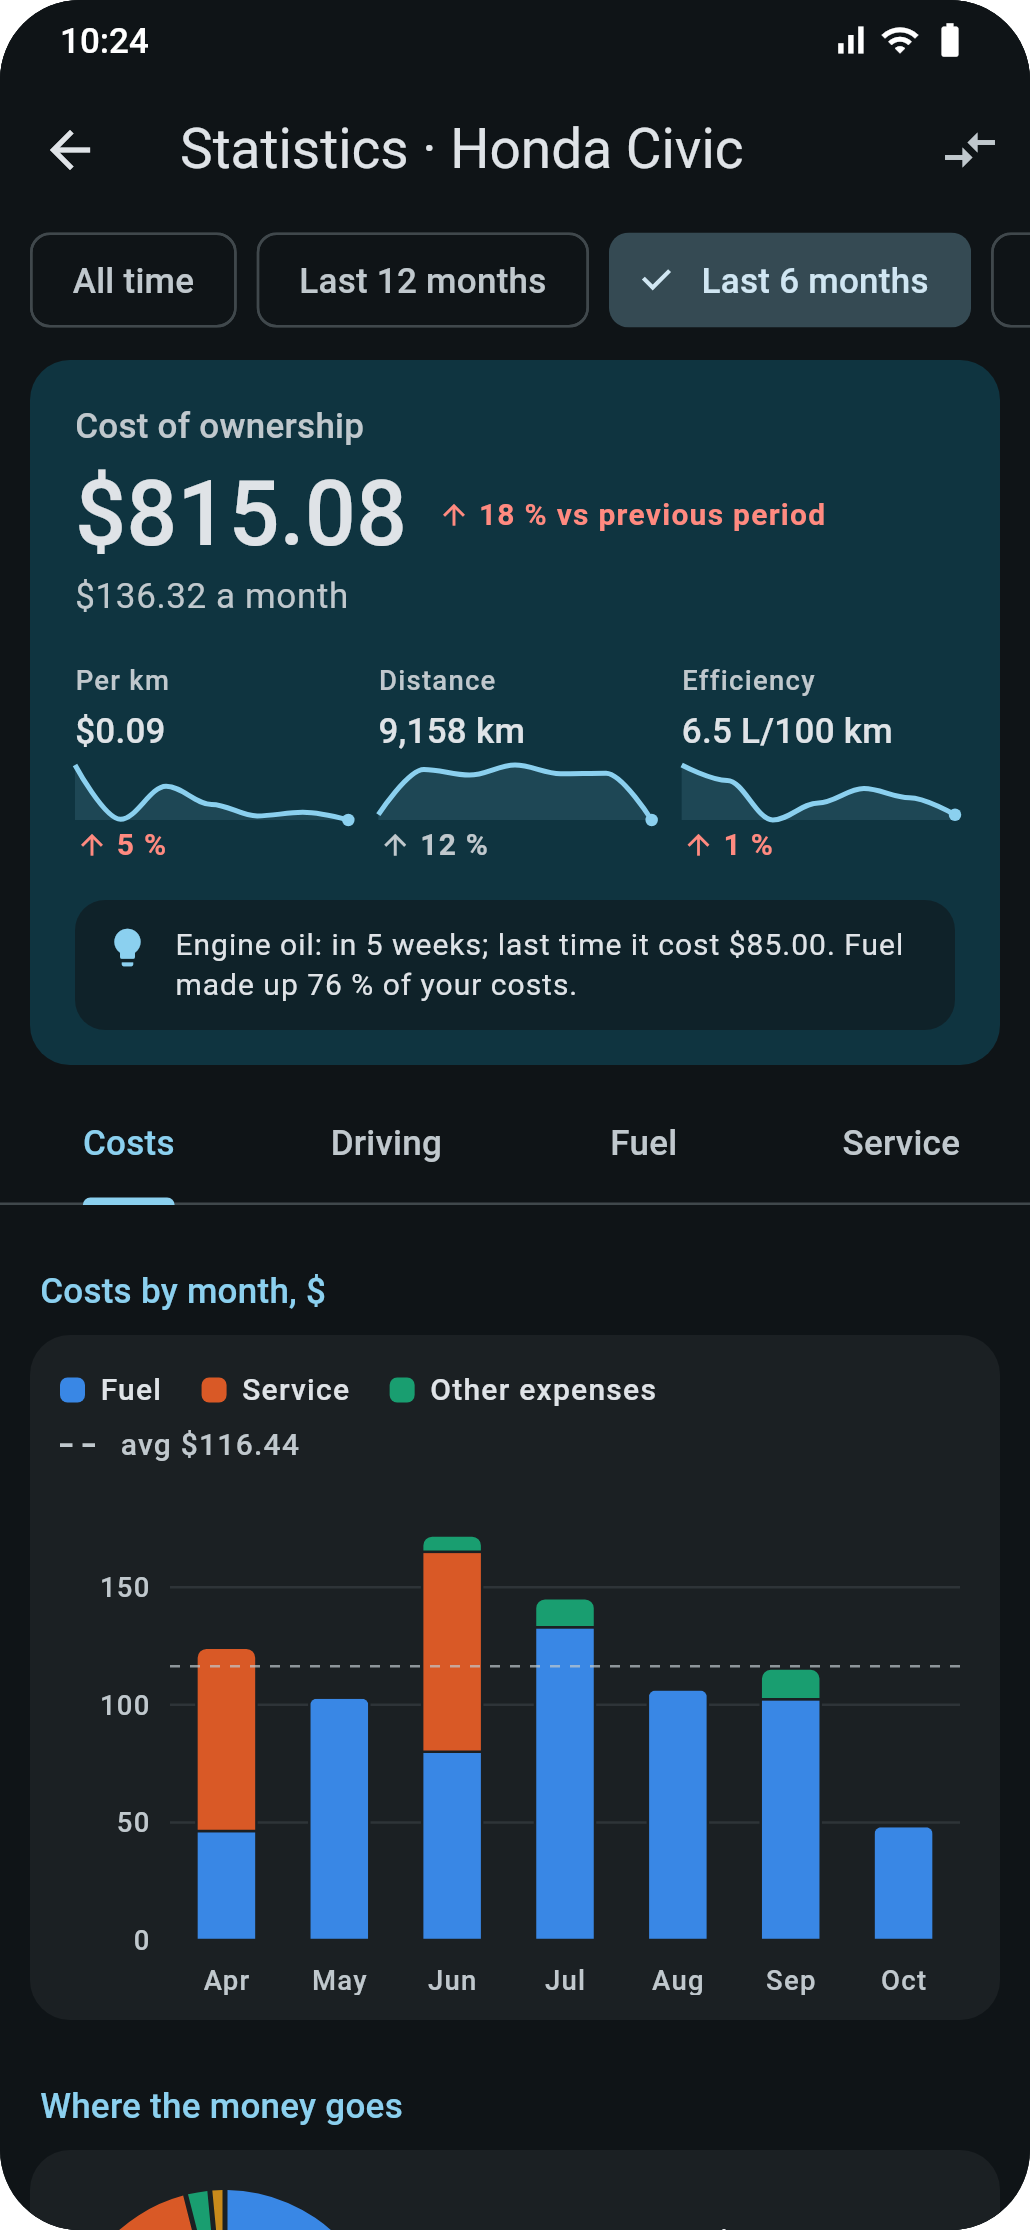
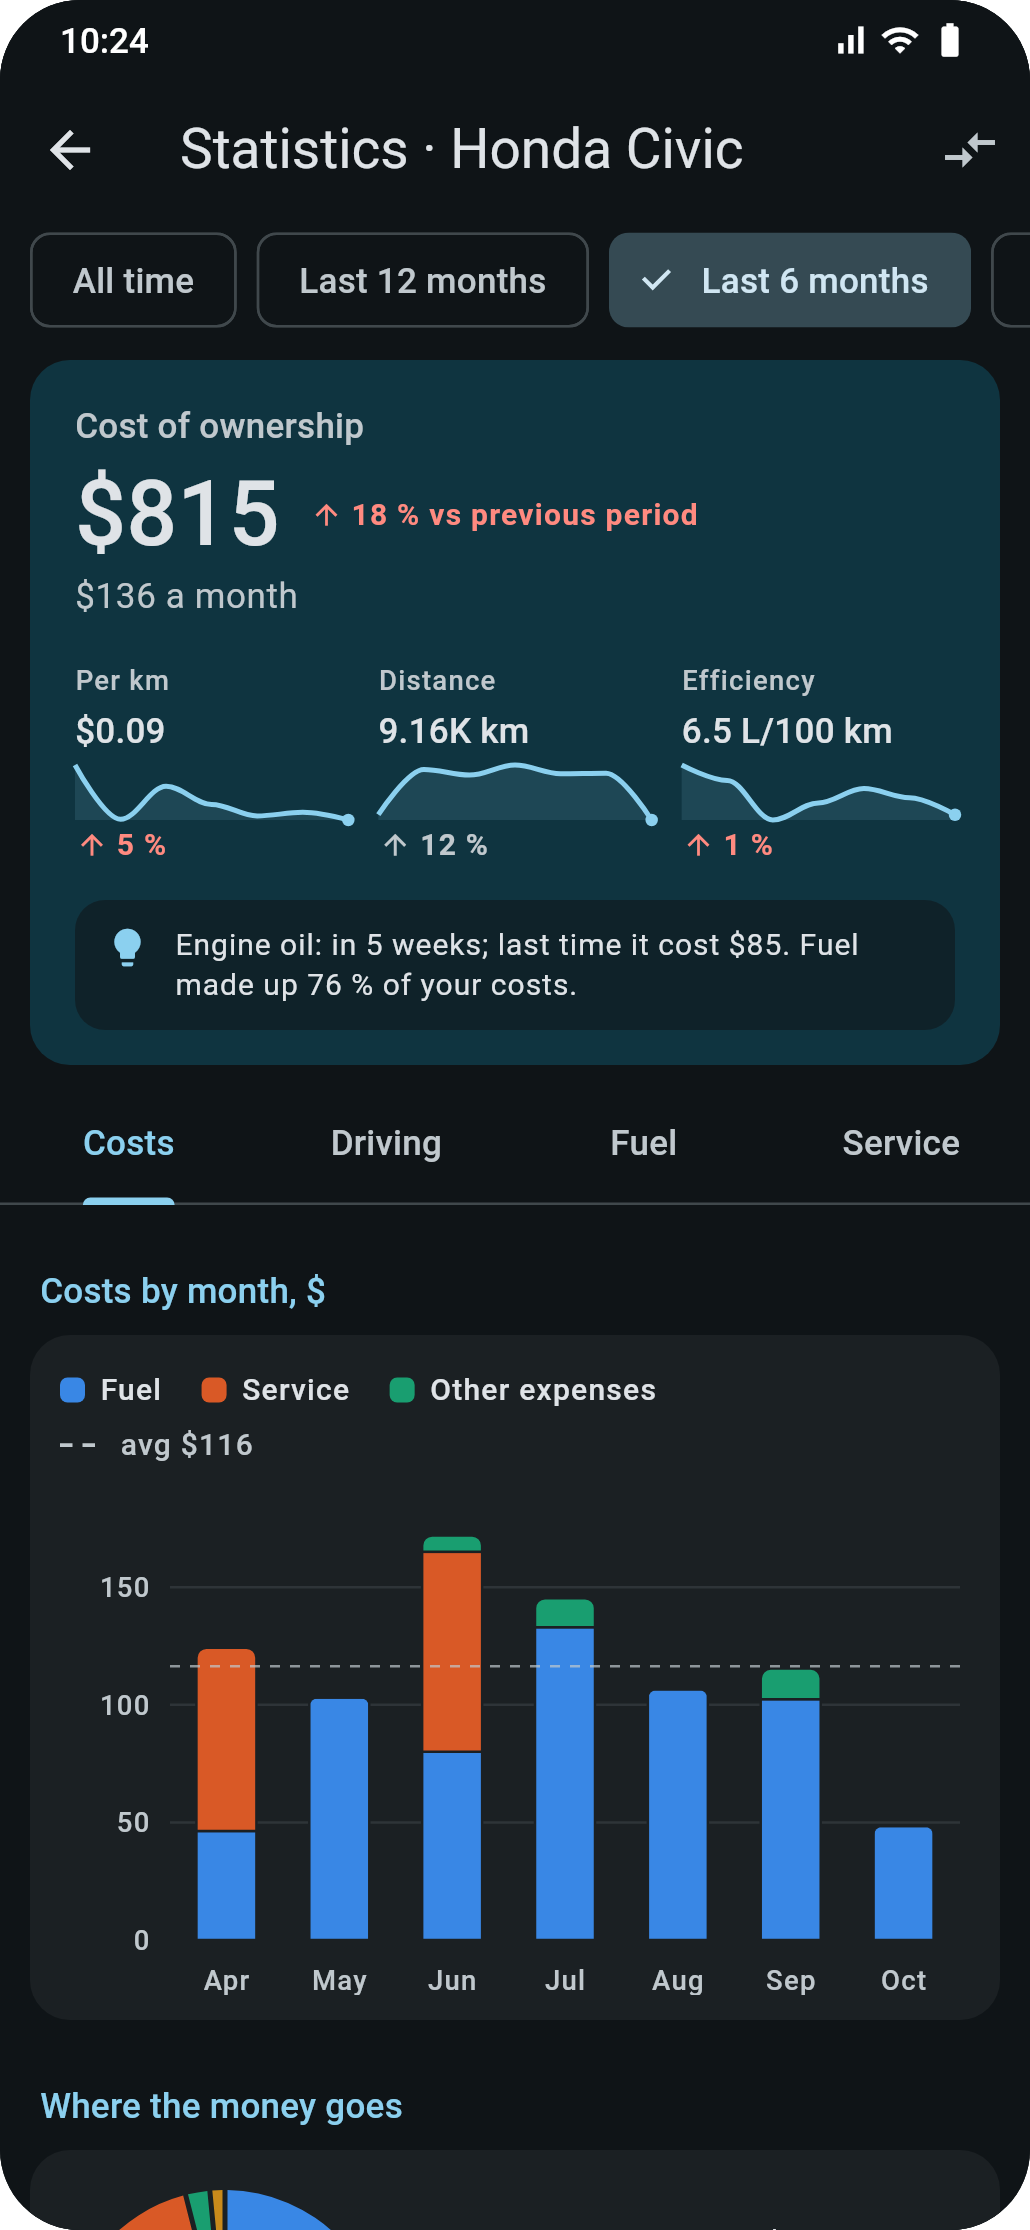
Statistics: whole currency units and K/M for large numbers
VehicleFormat.shortMoney/shortNumber/shortDistance/shortVolume use intl's
localized compact formats from a thousand and drop cents from ten upwards;
statistics and the compare screen use them.

Claude-Session: https://claude.ai/code/session_01F8422znuTrndrCgUezhEd8

diff --git a/lib/features/stats/presentation/stats_screen.dart b/lib/features/stats/presentation/stats_screen.dart
@@ -460,12 +460,12 @@ class SummaryCard extends StatelessWidget {
               crossAxisAlignment: WrapCrossAlignment.center,
               spacing: 12,
               children: [
-                Text(fmt.money(c.totalCost), style: theme.textTheme.displaySmall?.copyWith(fontWeight: FontWeight.w500)),
+                Text(fmt.shortMoney(c.totalCost), style: theme.textTheme.displaySmall?.copyWith(fontWeight: FontWeight.w500)),
                 if (change != null) Delta(change, lowerIsBetter: true, suffix: d.comparisonLabel(l10n)),
               ],
             ),
             Text(
-              l10n.perMonthValue(fmt.money(c.totalCost / d.months)),
+              l10n.perMonthValue(fmt.shortMoney(c.totalCost / d.months)),
               style: theme.textTheme.bodyMedium?.copyWith(color: scheme.onSurfaceVariant),
             ),
             const SizedBox(height: 16),
@@ -473,7 +473,7 @@ class SummaryCard extends StatelessWidget {
               children: [
                 kpi(
                   l10n.perDistanceUnit(fmt.distanceUnit),
-                  d.costPerDistance == null ? '—' : fmt.money(d.costPerDistance!),
+                  d.costPerDistance == null ? '—' : fmt.shortMoney(d.costPerDistance!),
                   relativeChange(d.costPerDistance, d.previousCostPerDistance),
                   [for (final p in costPerDistanceByMonth(d.entries, d.daily, within)) p.value],
                   lowerIsBetter: true,
@@ -481,7 +481,7 @@ class SummaryCard extends StatelessWidget {
                 const SizedBox(width: 12),
                 kpi(
                   l10n.statDistance,
-                  fmt.distance(d.distance),
+                  fmt.shortDistance(d.distance),
                   relativeChange(d.distance, d.previousDistance),
                   [for (final m in monthlyDistance(d.daily, within)) m.value],
                 ),
@@ -535,7 +535,7 @@ String insightText(AppLocalizations l10n, StatsData d, Insight insight) => switc
     l10n.insightCheaperStation(d.names[cheaper] ?? '?', '$percent', d.names[dearer] ?? '?'),
   UpcomingServiceInsight(:final reminderName, :final days, :final cost) => cost == null
       ? l10n.insightUpcoming(reminderName, _when(l10n, days))
-      : l10n.insightUpcomingCost(reminderName, _when(l10n, days), d.fmt.money(cost)),
+      : l10n.insightUpcomingCost(reminderName, _when(l10n, days), d.fmt.shortMoney(cost)),
 };
 
 /// Builders for the four tabs.
@@ -607,8 +607,8 @@ class _TabContent {
           l10n.whereMoneyGoes,
           DonutChart(
             slices: [for (final s in slices) (label: d.costName(l10n, s), value: s.cost, color: colorOf(s))],
-            format: fmt.money,
-            total: fmt.money(d.current.totalCost),
+            format: fmt.shortMoney,
+            total: fmt.shortMoney(d.current.totalCost),
             totalLabel: l10n.periodTotal,
           ),
         ),
@@ -616,7 +616,7 @@ class _TabContent {
         _section(
           context,
           l10n.chartCostPerDistance(fmt.distanceUnit),
-          TrendChart(points: perDistance, format: (v) => fmt.money(v), averageLabel: l10n.average),
+          TrendChart(points: perDistance, format: (v) => fmt.shortMoney(v), averageLabel: l10n.average),
           caption: l10n.costPerDistanceHint,
         ),
       if (d.previous != null && d.current.totalCost > 0)
@@ -628,7 +628,7 @@ class _TabContent {
             previous: cumulativeCosts(d.entries, d.comparedRange!),
             start: d.start,
             days: d.days,
-            format: fmt.money,
+            format: fmt.shortMoney,
             axisFormat: fmt.compactMoney,
             currentLabel: l10n.thisPeriod,
             previousLabel: l10n.previousPeriod,
@@ -640,19 +640,19 @@ class _TabContent {
         children: [
           ListTile(
             leading: const Icon(Icons.calendar_month),
-            title: Text(l10n.perMonthValue(fmt.money(d.current.totalCost / d.months))),
+            title: Text(l10n.perMonthValue(fmt.shortMoney(d.current.totalCost / d.months))),
             subtitle: Text(l10n.avgInPeriod),
           ),
           if (projected != null)
             ListTile(
               leading: const Icon(Icons.trending_up),
-              title: Text(l10n.projectedYear(fmt.money(projected), '${d.now.year}')),
+              title: Text(l10n.projectedYear(fmt.shortMoney(projected), '${d.now.year}')),
               subtitle: Text(l10n.projectedYearHint),
             ),
           for (final u in nextServices)
             ListTile(
               leading: const Icon(Icons.build),
-              title: Text(l10n.expectedService(fmt.money(u.cost!), u.status.reminder.name)),
+              title: Text(l10n.expectedService(fmt.shortMoney(u.cost!), u.status.reminder.name)),
               subtitle: Text(reminderStatusText(fmt, u.status)),
               trailing: const Icon(Icons.chevron_right),
               onTap: () => context.push(Routes.reminder(d.vehicle.id, u.status.reminder.id)),
@@ -729,22 +729,22 @@ class _TabContent {
           children: [
             ListTile(
               leading: const Icon(Icons.flag),
-              title: Text(l10n.milestone(fmt.distance(milestone.odometer), DateFormat.yMMM(locale).format(milestone.date))),
+              title: Text(l10n.milestone(fmt.shortDistance(milestone.odometer), DateFormat.yMMM(locale).format(milestone.date))),
               subtitle: Text(l10n.milestoneHint),
             ),
           ],
         ),
       Island(
         children: [
-          ValueTile(label: l10n.mileageRecorded, value: fmt.distance(d.distance)),
-          ValueTile(label: l10n.avgDaily, value: fmt.distance(perDay)),
-          ValueTile(label: l10n.avgWeekly, value: fmt.distance(perDay * 7)),
-          ValueTile(label: l10n.avgMonthly, value: fmt.distance(perDay * 30.44)),
-          ValueTile(label: l10n.avgYearly, value: fmt.distance(perDay * 365)),
+          ValueTile(label: l10n.mileageRecorded, value: fmt.shortDistance(d.distance)),
+          ValueTile(label: l10n.avgDaily, value: fmt.shortDistance(perDay)),
+          ValueTile(label: l10n.avgWeekly, value: fmt.shortDistance(perDay * 7)),
+          ValueTile(label: l10n.avgMonthly, value: fmt.shortDistance(perDay * 30.44)),
+          ValueTile(label: l10n.avgYearly, value: fmt.shortDistance(perDay * 365)),
           if (busiest != null && months.length >= 2)
             ValueTile(
               label: l10n.busiestMonth,
-              value: '${DateFormat.yMMM(locale).format(busiest.month)} · ${fmt.distance(busiest.value)}',
+              value: '${DateFormat.yMMM(locale).format(busiest.month)} · ${fmt.shortDistance(busiest.value)}',
             ),
           if (gap != null) ValueTile(label: l10n.longestGap, value: formatDays(l10n, gap)),
         ],
@@ -793,10 +793,10 @@ class _TabContent {
           title: Text(d.names[g.id] ?? fallback),
           subtitle: Text([
             l10n.visitsCount(g.fills),
-            if (g.avgPrice != null) '${fmt.money(g.avgPrice!)}/${fmt.volumeUnit}',
+            if (g.avgPrice != null) '${fmt.shortMoney(g.avgPrice!)}/${fmt.volumeUnit}',
             if (g.efficiency != null) fmt.efficiency(g.efficiency!),
           ].join(' · ')),
-          trailing: Text(fmt.money(g.cost), style: Theme.of(context).textTheme.bodyMedium),
+          trailing: Text(fmt.shortMoney(g.cost), style: Theme.of(context).textTheme.bodyMedium),
         );
 
     return [
@@ -847,18 +847,18 @@ class _TabContent {
         children: [
           ValueTile(label: l10n.statEfficiency, value: _opt(s.efficiency, (v) => fmt.efficiency(v.toDouble()))),
           ValueTile(label: electric ? l10n.charges : l10n.refuels, value: fmt.number(s.fuelCount)),
-          ValueTile(label: electric ? l10n.energyUsed : l10n.fuelVolumeTotal, value: fmt.volume(s.fuelVolume)),
-          ValueTile(label: electric ? l10n.entryTypeCharging : l10n.fuelCost, value: fmt.money(s.fuelCost)),
+          ValueTile(label: electric ? l10n.energyUsed : l10n.fuelVolumeTotal, value: fmt.shortVolume(s.fuelVolume)),
+          ValueTile(label: electric ? l10n.entryTypeCharging : l10n.fuelCost, value: fmt.shortMoney(s.fuelCost)),
           ValueTile(
             label: electric ? l10n.avgEnergyPrice : l10n.avgFuelPrice,
-            value: _opt(s.avgFuelUnitPrice, (v) => '${fmt.money(v)}/${fmt.volumeUnit}'),
+            value: _opt(s.avgFuelUnitPrice, (v) => '${fmt.shortMoney(v)}/${fmt.volumeUnit}'),
           ),
-          ValueTile(label: electric ? l10n.avgCharge : l10n.avgFill, value: _opt(facts.avgFill, (v) => fmt.volume(v.toDouble()))),
+          ValueTile(label: electric ? l10n.avgCharge : l10n.avgFill, value: _opt(facts.avgFill, (v) => fmt.shortVolume(v.toDouble()))),
           if (facts.partialFills > 0)
             ValueTile(label: electric ? l10n.partialCharges : l10n.partialFills, value: fmt.number(facts.partialFills)),
           ValueTile(
             label: electric ? l10n.rangePerCharge : l10n.rangePerTank,
-            value: _opt(facts.rangePerTank, (v) => fmt.distance(v)),
+            value: _opt(facts.rangePerTank, (v) => fmt.shortDistance(v)),
           ),
           ValueTile(
             label: electric ? l10n.avgTimeBetweenCharges : l10n.avgTimeBetweenRefuels,
@@ -869,8 +869,8 @@ class _TabContent {
       if (facts.cheapest != null || facts.best != null)
         Island(
           children: [
-            if (facts.cheapest case final e?) record(l10n.cheapestFill, '${fmt.money(unitPrice(e)!)}/${fmt.volumeUnit}', e),
-            if (facts.dearest case final e?) record(l10n.dearestFill, '${fmt.money(unitPrice(e)!)}/${fmt.volumeUnit}', e),
+            if (facts.cheapest case final e?) record(l10n.cheapestFill, '${fmt.shortMoney(unitPrice(e)!)}/${fmt.volumeUnit}', e),
+            if (facts.dearest case final e?) record(l10n.dearestFill, '${fmt.shortMoney(unitPrice(e)!)}/${fmt.volumeUnit}', e),
             if (facts.best case (final e, final v)) record(l10n.bestEfficiency, fmt.efficiency(v), e),
             if (facts.worst case (final e, final v)) record(l10n.worstEfficiency, fmt.efficiency(v), e),
           ],
@@ -916,7 +916,7 @@ class _TabContent {
                 title: Text(u.status.reminder.name),
                 subtitle: Text([
                   reminderStatusText(fmt, u.status),
-                  if (u.cost != null) l10n.expectedCost(fmt.money(u.cost!)),
+                  if (u.cost != null) l10n.expectedCost(fmt.shortMoney(u.cost!)),
                 ].join('\n')),
                 isThreeLine: u.cost != null,
                 trailing: const Icon(Icons.chevron_right),
@@ -947,10 +947,10 @@ class _TabContent {
       Island(
         children: [
           ValueTile(label: l10n.services, value: fmt.number(s.serviceCount)),
-          ValueTile(label: l10n.serviceCost, value: fmt.money(s.serviceCost)),
+          ValueTile(label: l10n.serviceCost, value: fmt.shortMoney(s.serviceCost)),
           ValueTile(
             label: l10n.avgDistanceBetweenServices,
-            value: _opt(s.avgDistanceBetweenServices, (v) => fmt.distance(v)),
+            value: _opt(s.avgDistanceBetweenServices, (v) => fmt.shortDistance(v)),
           ),
           ValueTile(
             label: l10n.avgTimeBetweenServices,

diff --git a/lib/core/format/vehicle_format.dart b/lib/core/format/vehicle_format.dart
@@ -58,6 +58,24 @@ class VehicleFormat {
     return v == null ? null : (v * _minorFactor).round();
   }
 
+  /// Money for statistics: K/M from a thousand ("₽469K", "469 тыс. ₽"), whole units from ten ("₽815"),
+  /// cents only below that ("$0.09").
+  String shortMoney(num minor) {
+    final major = minor / _minorFactor;
+    if (major.abs() >= 1000) return NumberFormat.compactSimpleCurrency(locale: locale, name: vehicle.currencyCode).format(major);
+    if (major.abs() >= 10) {
+      return NumberFormat.simpleCurrency(locale: locale, name: vehicle.currencyCode, decimalDigits: 0).format(major);
+    }
+    return _currency.format(major);
+  }
+
+  /// Numbers for statistics: K/M from a thousand ("17.4K"), otherwise up to [maxDigits] decimals.
+  String shortNumber(num value, {int maxDigits = 0}) =>
+      value.abs() >= 1000 ? NumberFormat.compact(locale: locale).format(value) : number(value, maxDigits: maxDigits);
+
+  String shortDistance(num value) => '${shortNumber(value)} $distanceUnit';
+  String shortVolume(double value) => '${shortNumber(value, maxDigits: 1)} $volumeUnit';
+
   String distance(num value) => '${number(value)} $distanceUnit';
   String volume(double value) => '${number(value, maxDigits: 2)} $volumeUnit';
   String efficiency(double value) => '${number(value, maxDigits: 1)} $efficiencyUnit';

diff --git a/lib/features/stats/presentation/stats_charts.dart b/lib/features/stats/presentation/stats_charts.dart
@@ -61,7 +61,7 @@ class MonthlyCostsChart extends StatelessWidget {
         _Legend(items: [for (var i = 0; i < 3; i++) (labels[i], colors[i])]),
         if (averageLabel != null) ...[
           const SizedBox(height: 6),
-          _AverageCaption('$averageLabel ${fmt.money(average)}'),
+          _AverageCaption('$averageLabel ${fmt.shortMoney(average)}'),
         ],
         const SizedBox(height: 12),
         SizedBox(
@@ -124,11 +124,11 @@ class MonthlyCostsChart extends StatelessWidget {
                             for (var i = 0; i < 3; i++)
                               if (values[i] != 0)
                                 TextSpan(
-                                  text: '${labels[i]}: ${fmt.money(values[i])}\n',
+                                  text: '${labels[i]}: ${fmt.shortMoney(values[i])}\n',
                                   style: theme.textTheme.labelSmall!.copyWith(color: scheme.onInverseSurface),
                                 ),
                             TextSpan(
-                              text: fmt.money(m.total),
+                              text: fmt.shortMoney(m.total),
                               style: theme.textTheme.labelMedium!.copyWith(
                                 color: scheme.onInverseSurface,
                                 fontWeight: FontWeight.w600,

diff --git a/lib/features/stats/presentation/compare_screen.dart b/lib/features/stats/presentation/compare_screen.dart
@@ -131,12 +131,12 @@ class _CompareScreenState extends ConsumerState<CompareScreen> {
       metric(
         l10n.statCostPerDistance,
         (f) => f.perDistance,
-        (fmt, v) => '${fmt.money(v)}/${fmt.distanceUnit}',
+        (fmt, v) => '${fmt.shortMoney(v)}/${fmt.distanceUnit}',
         (v) => '${v.currencyCode}/${v.distanceUnit.name}',
       ),
-      metric(l10n.monthlyCost, (f) => f.monthly, (fmt, v) => fmt.money(v), (v) => v.currencyCode),
-      metric(l10n.totalCost, (f) => f.total.toDouble(), (fmt, v) => fmt.money(v), (v) => v.currencyCode),
-      metric(l10n.statDistance, (f) => f.distance, (fmt, v) => fmt.distance(v), (v) => v.distanceUnit.name),
+      metric(l10n.monthlyCost, (f) => f.monthly, (fmt, v) => fmt.shortMoney(v), (v) => v.currencyCode),
+      metric(l10n.totalCost, (f) => f.total.toDouble(), (fmt, v) => fmt.shortMoney(v), (v) => v.currencyCode),
+      metric(l10n.statDistance, (f) => f.distance, (fmt, v) => fmt.shortDistance(v), (v) => v.distanceUnit.name),
       metric(l10n.statEfficiency, (f) => f.efficiency, (fmt, v) => fmt.efficiency(v), (v) => v.efficiencyUnit.name),
     ];
     return Scaffold(

diff --git a/test/vehicle_format_test.dart b/test/vehicle_format_test.dart
@@ -1,0 +1,26 @@
+import 'package:flutter/widgets.dart';
+import 'package:flutter_test/flutter_test.dart';
+import 'package:garage/core/format/vehicle_format.dart';
+import 'package:garage/l10n/l10n.dart';
+
+import 'helpers.dart';
+
+void main() {
+  final en = VehicleFormat(lookupAppLocalizations(const Locale('en')), testVehicle());
+  final ru = VehicleFormat(lookupAppLocalizations(const Locale('ru')), testVehicle());
+
+  test('short money drops cents and shortens thousands', () {
+    expect(en.shortMoney(46917784), '€469K');
+    expect(en.shortMoney(150702), '€1.51K');
+    expect(en.shortMoney(81508), '€815');
+    expect(en.shortMoney(5150), '€52');
+    expect(en.shortMoney(9), '€0.09', reason: 'small amounts such as cost per km keep cents');
+    expect(ru.shortMoney(46917784), '469 тыс. €');
+  });
+
+  test('short numbers and distances', () {
+    expect(en.shortDistance(17350), '17.4K km');
+    expect(en.shortDistance(815), '815 km');
+    expect(en.shortNumber(6.54, maxDigits: 1), '6.5');
+  });
+}

diff --git a/CHANGELOG.md b/CHANGELOG.md
@@ -4,6 +4,11 @@ Each section becomes the notes of the GitHub release with that version
 (`tool/changelog.sh <version>`; see docs/RELEASING.md). Newest first; rename *Unreleased* to the
 version when releasing.
 
+## Unreleased
+
+- Statistics show money without cents (except small amounts such as cost per km) and shorten large
+  numbers: ₽469K, 1.51K $, 17.4K km.
+
 ## 2.9.0
 
 - **Statistics redesigned.** A summary on top: cost of ownership with the change against the
